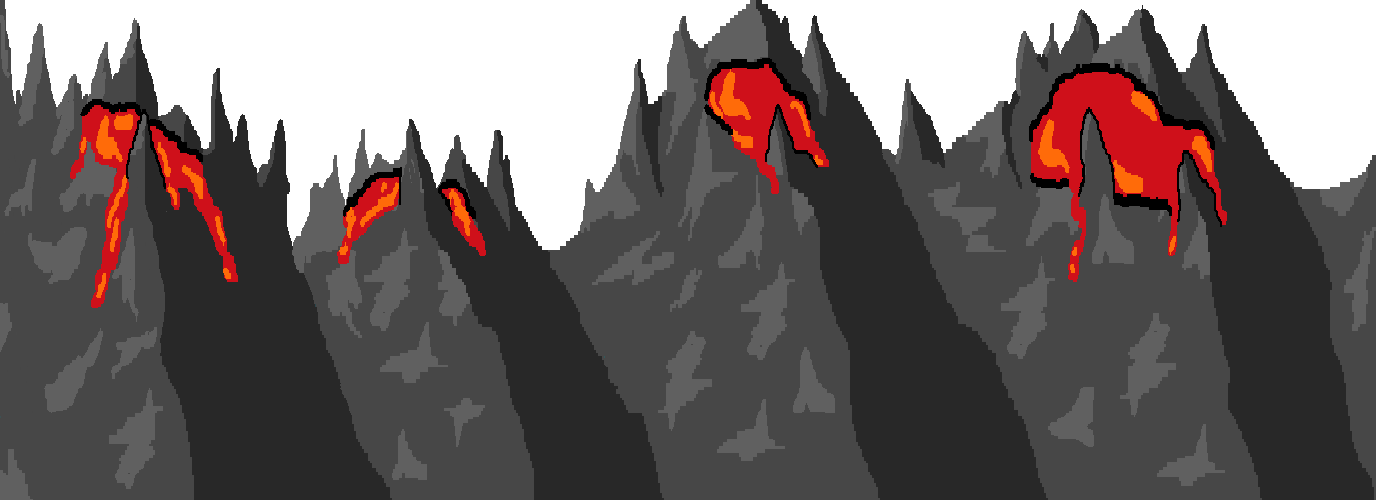
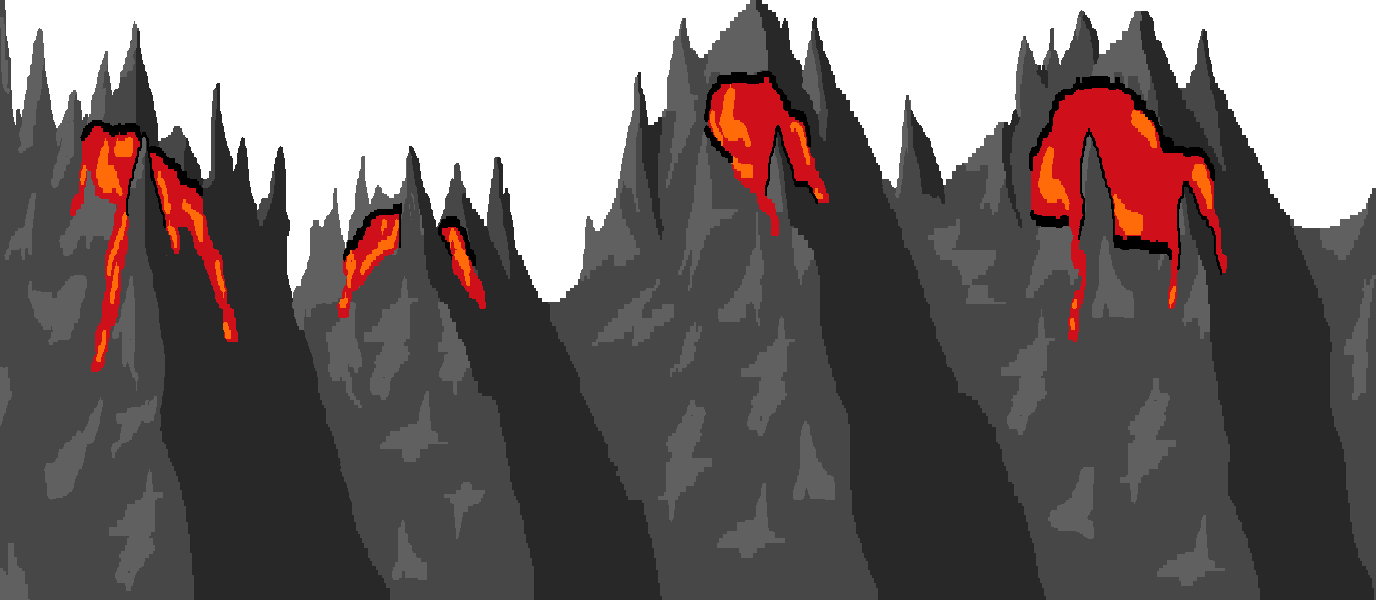
Правки фона

diff --git a/image.py b/image.py
@@ -24,10 +24,6 @@ grenade_img.set_colorkey((255, 255, 255))
 bullet_img = pygame.image.load('data/img/icons/bullet.png').convert()
 bullet_img.set_colorkey((255, 255, 255))
 
-bk1_img = pygame.image.load('data/img/Background/bk1.png').convert()
-bk1_img.set_colorkey((255, 255, 255))
-bk2_img = pygame.image.load('data/img/Background/bk2.png').convert()
-bk2_img.set_colorkey((255, 255, 255))
 mountain_img = pygame.image.load('data/img/Background/mountain.png').convert()
 mountain_img.set_colorkey((255, 255, 255))
 mountain_img = pygame.transform.scale(mountain_img, (int(mountain_img.get_width()), int(400)))
